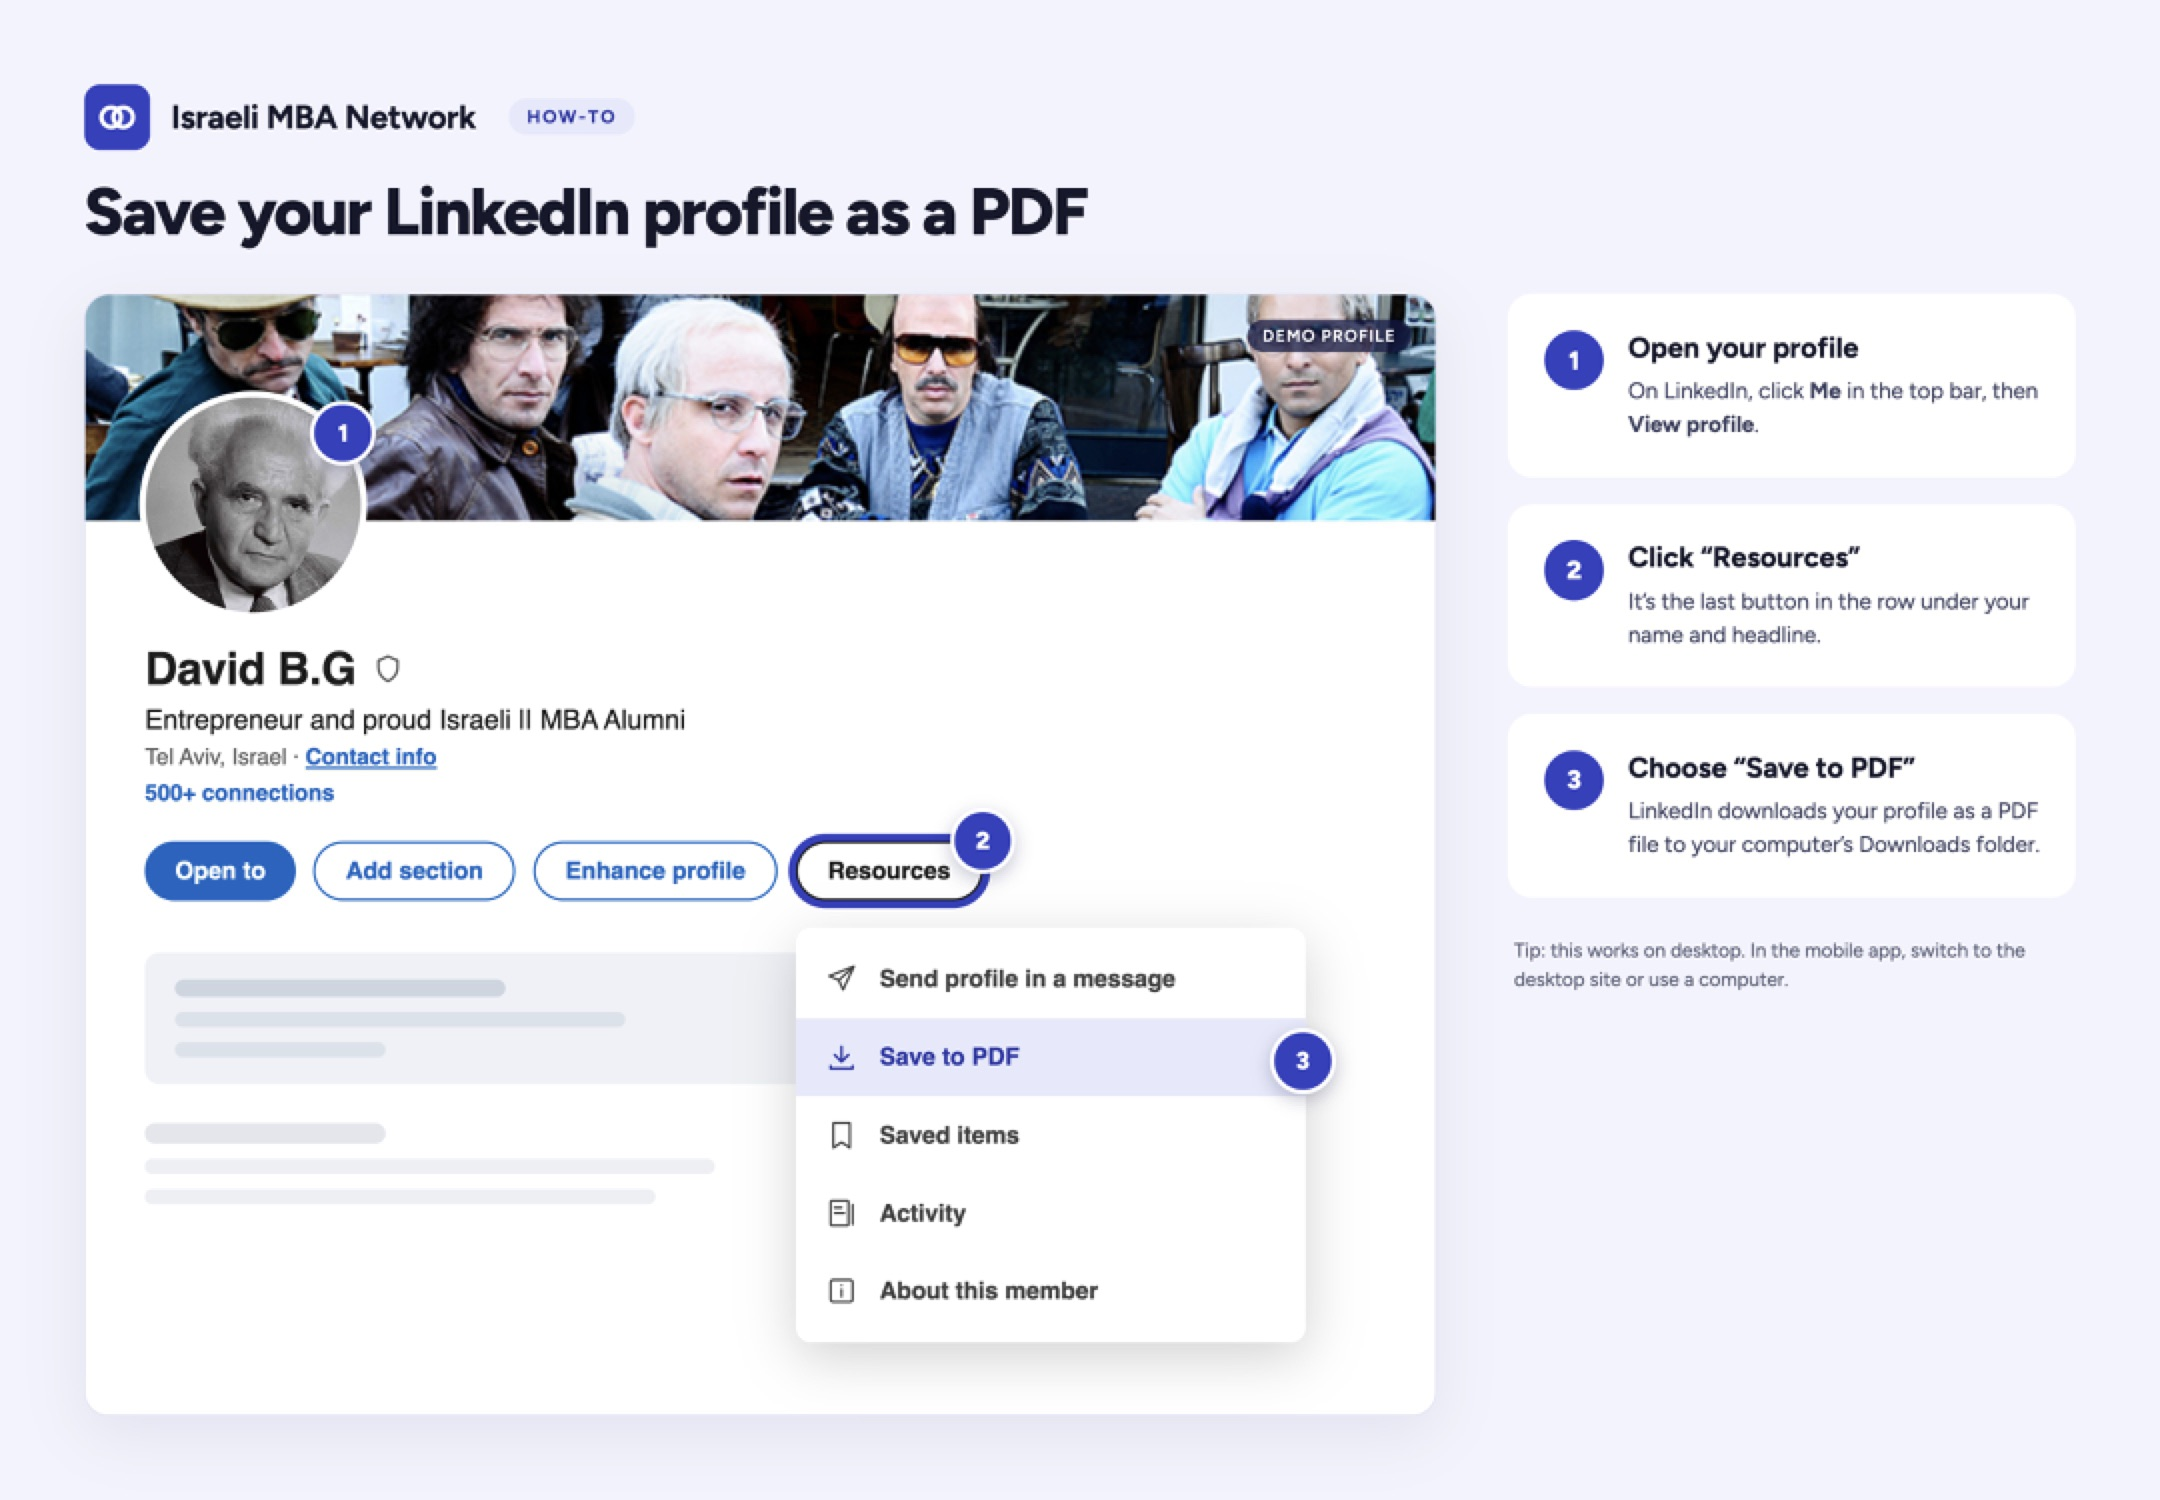
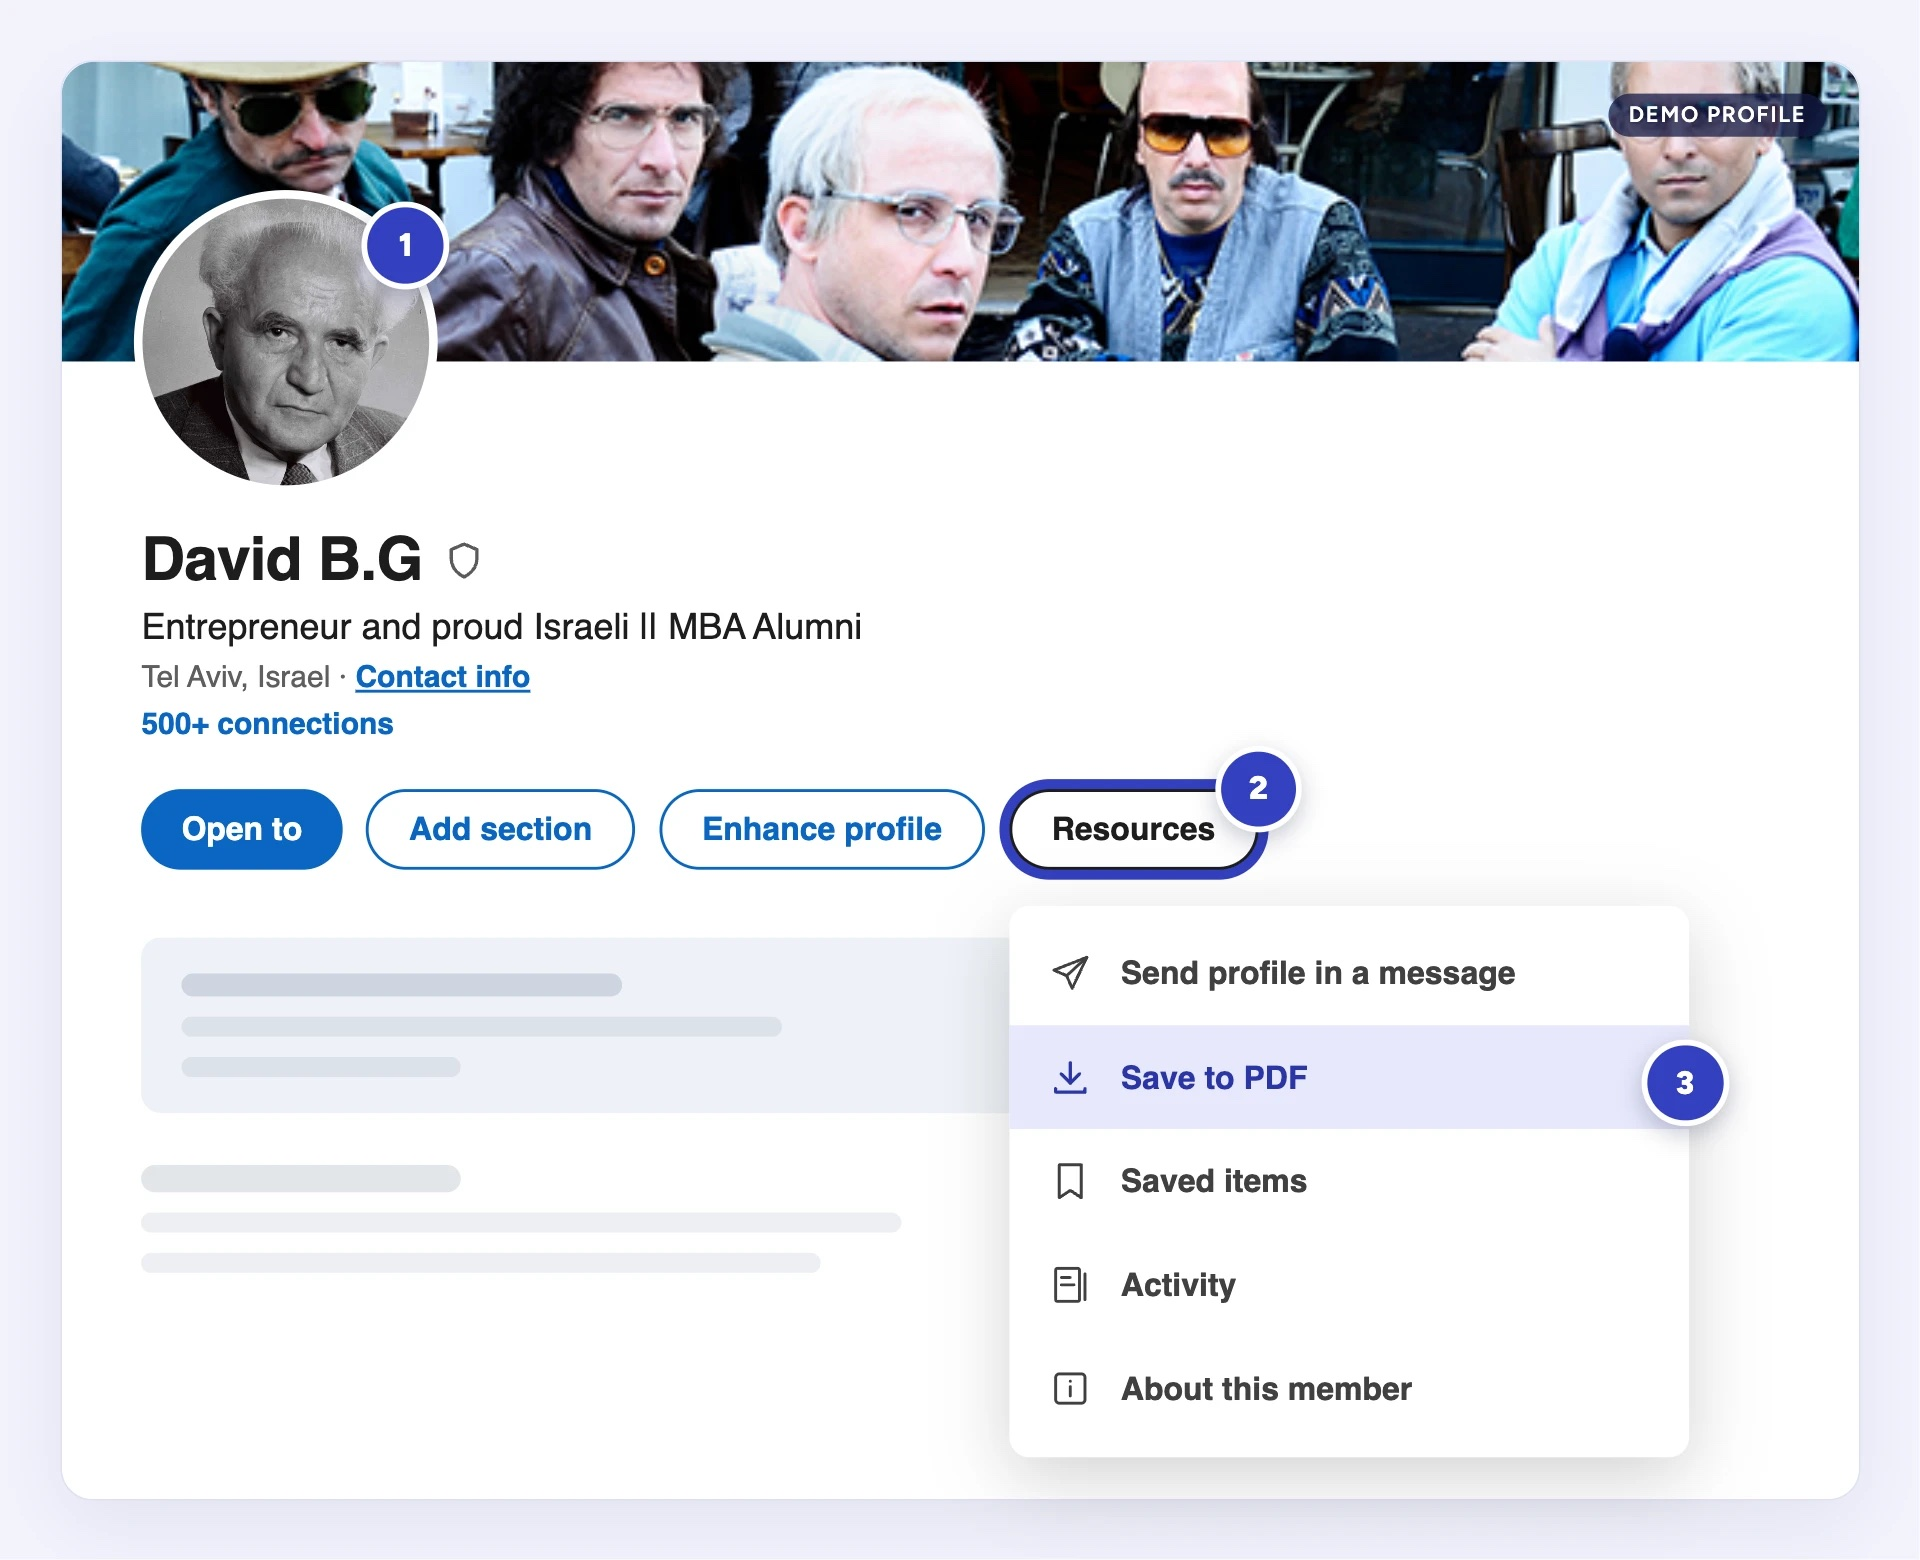
LinkedIn PDF guide: new image (profile card with steps 1-3)
Replaces the guide image with the cropped profile card; the steps are written
under it on every screen. Window width fits the new image.

diff --git a/index.html b/index.html
@@ -391,7 +391,7 @@ mark{background:none;color:var(--accent-text);font-weight:700}
 /* modal + toast */
 .scrim{position:fixed;inset:0;background:var(--scrim);z-index:60;display:grid;place-items:center;padding:16px;animation:fade .15s}
 .modal{width:min(480px,100%);background:var(--surface);border-radius:22px;box-shadow:var(--shadow-lg);padding:24px;max-height:90vh;overflow:auto;animation:pop .18s ease-out}
-.modal.guide{width:min(980px,100%)}
+.modal.guide{width:min(760px,100%)}
 .guide-h{display:flex;align-items:flex-start;justify-content:space-between;gap:12px;margin-bottom:12px}
 .modal.guide img{display:block;width:100%;height:auto;border-radius:14px;border:1px solid var(--line)}
 .guide-steps{margin:14px 0 0;padding-left:20px;font-size:14px;line-height:1.5;color:var(--ink)}
@@ -2027,7 +2027,7 @@ function bindSearch(box){
 function openGuide(){
   document.getElementById('modal-root').innerHTML=`<div class="scrim" data-act="scrim"><div class="modal guide" role="dialog" aria-modal="true" aria-label="How to save your LinkedIn profile as a PDF">
     <div class="guide-h"><h3>Save your LinkedIn profile as a PDF</h3><button class="ibtn" data-act="close" aria-label="Close">${I.x}</button></div>
-    <img src="assets/linkedin-pdf-guide.jpg" alt="On LinkedIn: 1. open your profile (Me, then View profile). 2. Click Resources, the last button under your name and headline. 3. Choose Save to PDF. The file lands in your Downloads folder. Works on desktop; in the mobile app switch to the desktop site.">
+    <img src="assets/linkedin-pdf-guide.jpg?v=2" alt="A LinkedIn profile with three numbered markers: 1 on the profile photo, 2 on the Resources button under the name, 3 on Save to PDF in the menu that opens.">
     <ol class="guide-steps"><li><b>Open your profile.</b> On LinkedIn, click <b>Me</b> in the top bar, then <b>View profile</b>.</li><li><b>Click “Resources”.</b> It’s the last button under your name and headline.</li><li><b>Choose “Save to PDF”.</b> The file goes to your Downloads folder. Then come back and upload it.</li></ol>
     <p class="muted" style="margin:6px 0 0;font-size:13px">Works on a computer. On a phone, open LinkedIn in the browser and switch to the desktop site.</p>
     <div class="row"><button class="btn primary pill" data-act="close">Got it</button></div></div></div>`;
